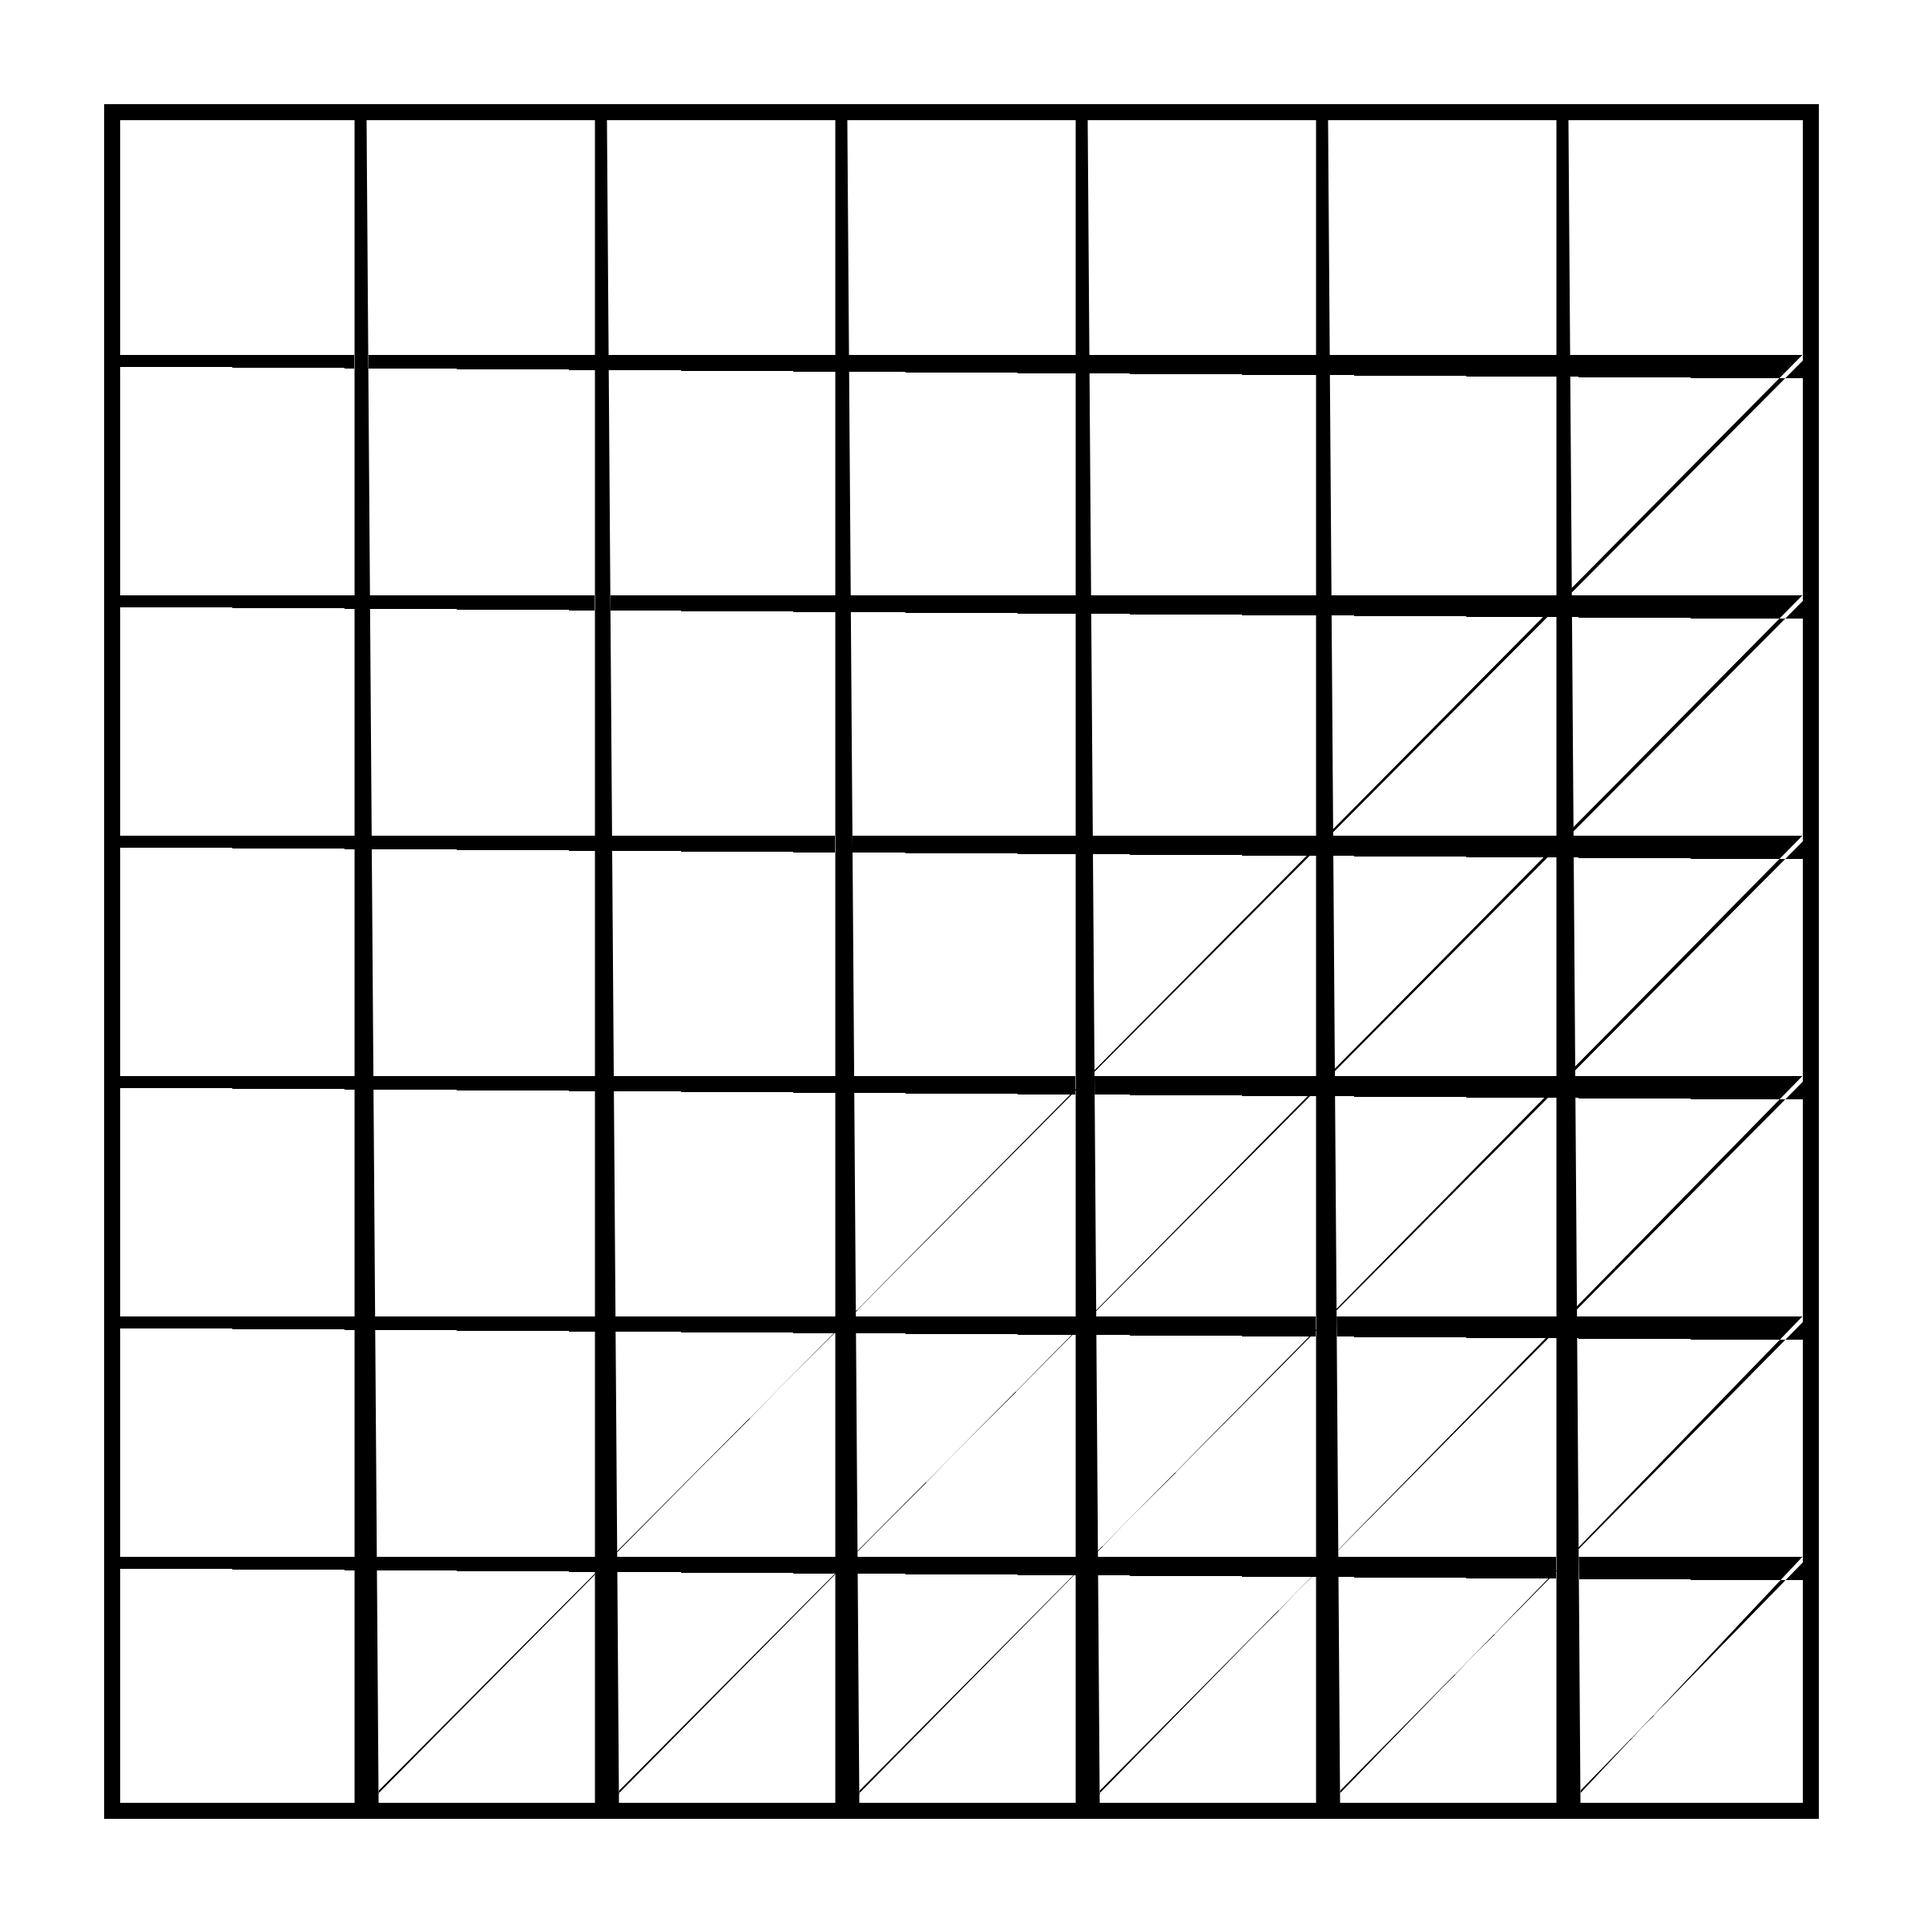
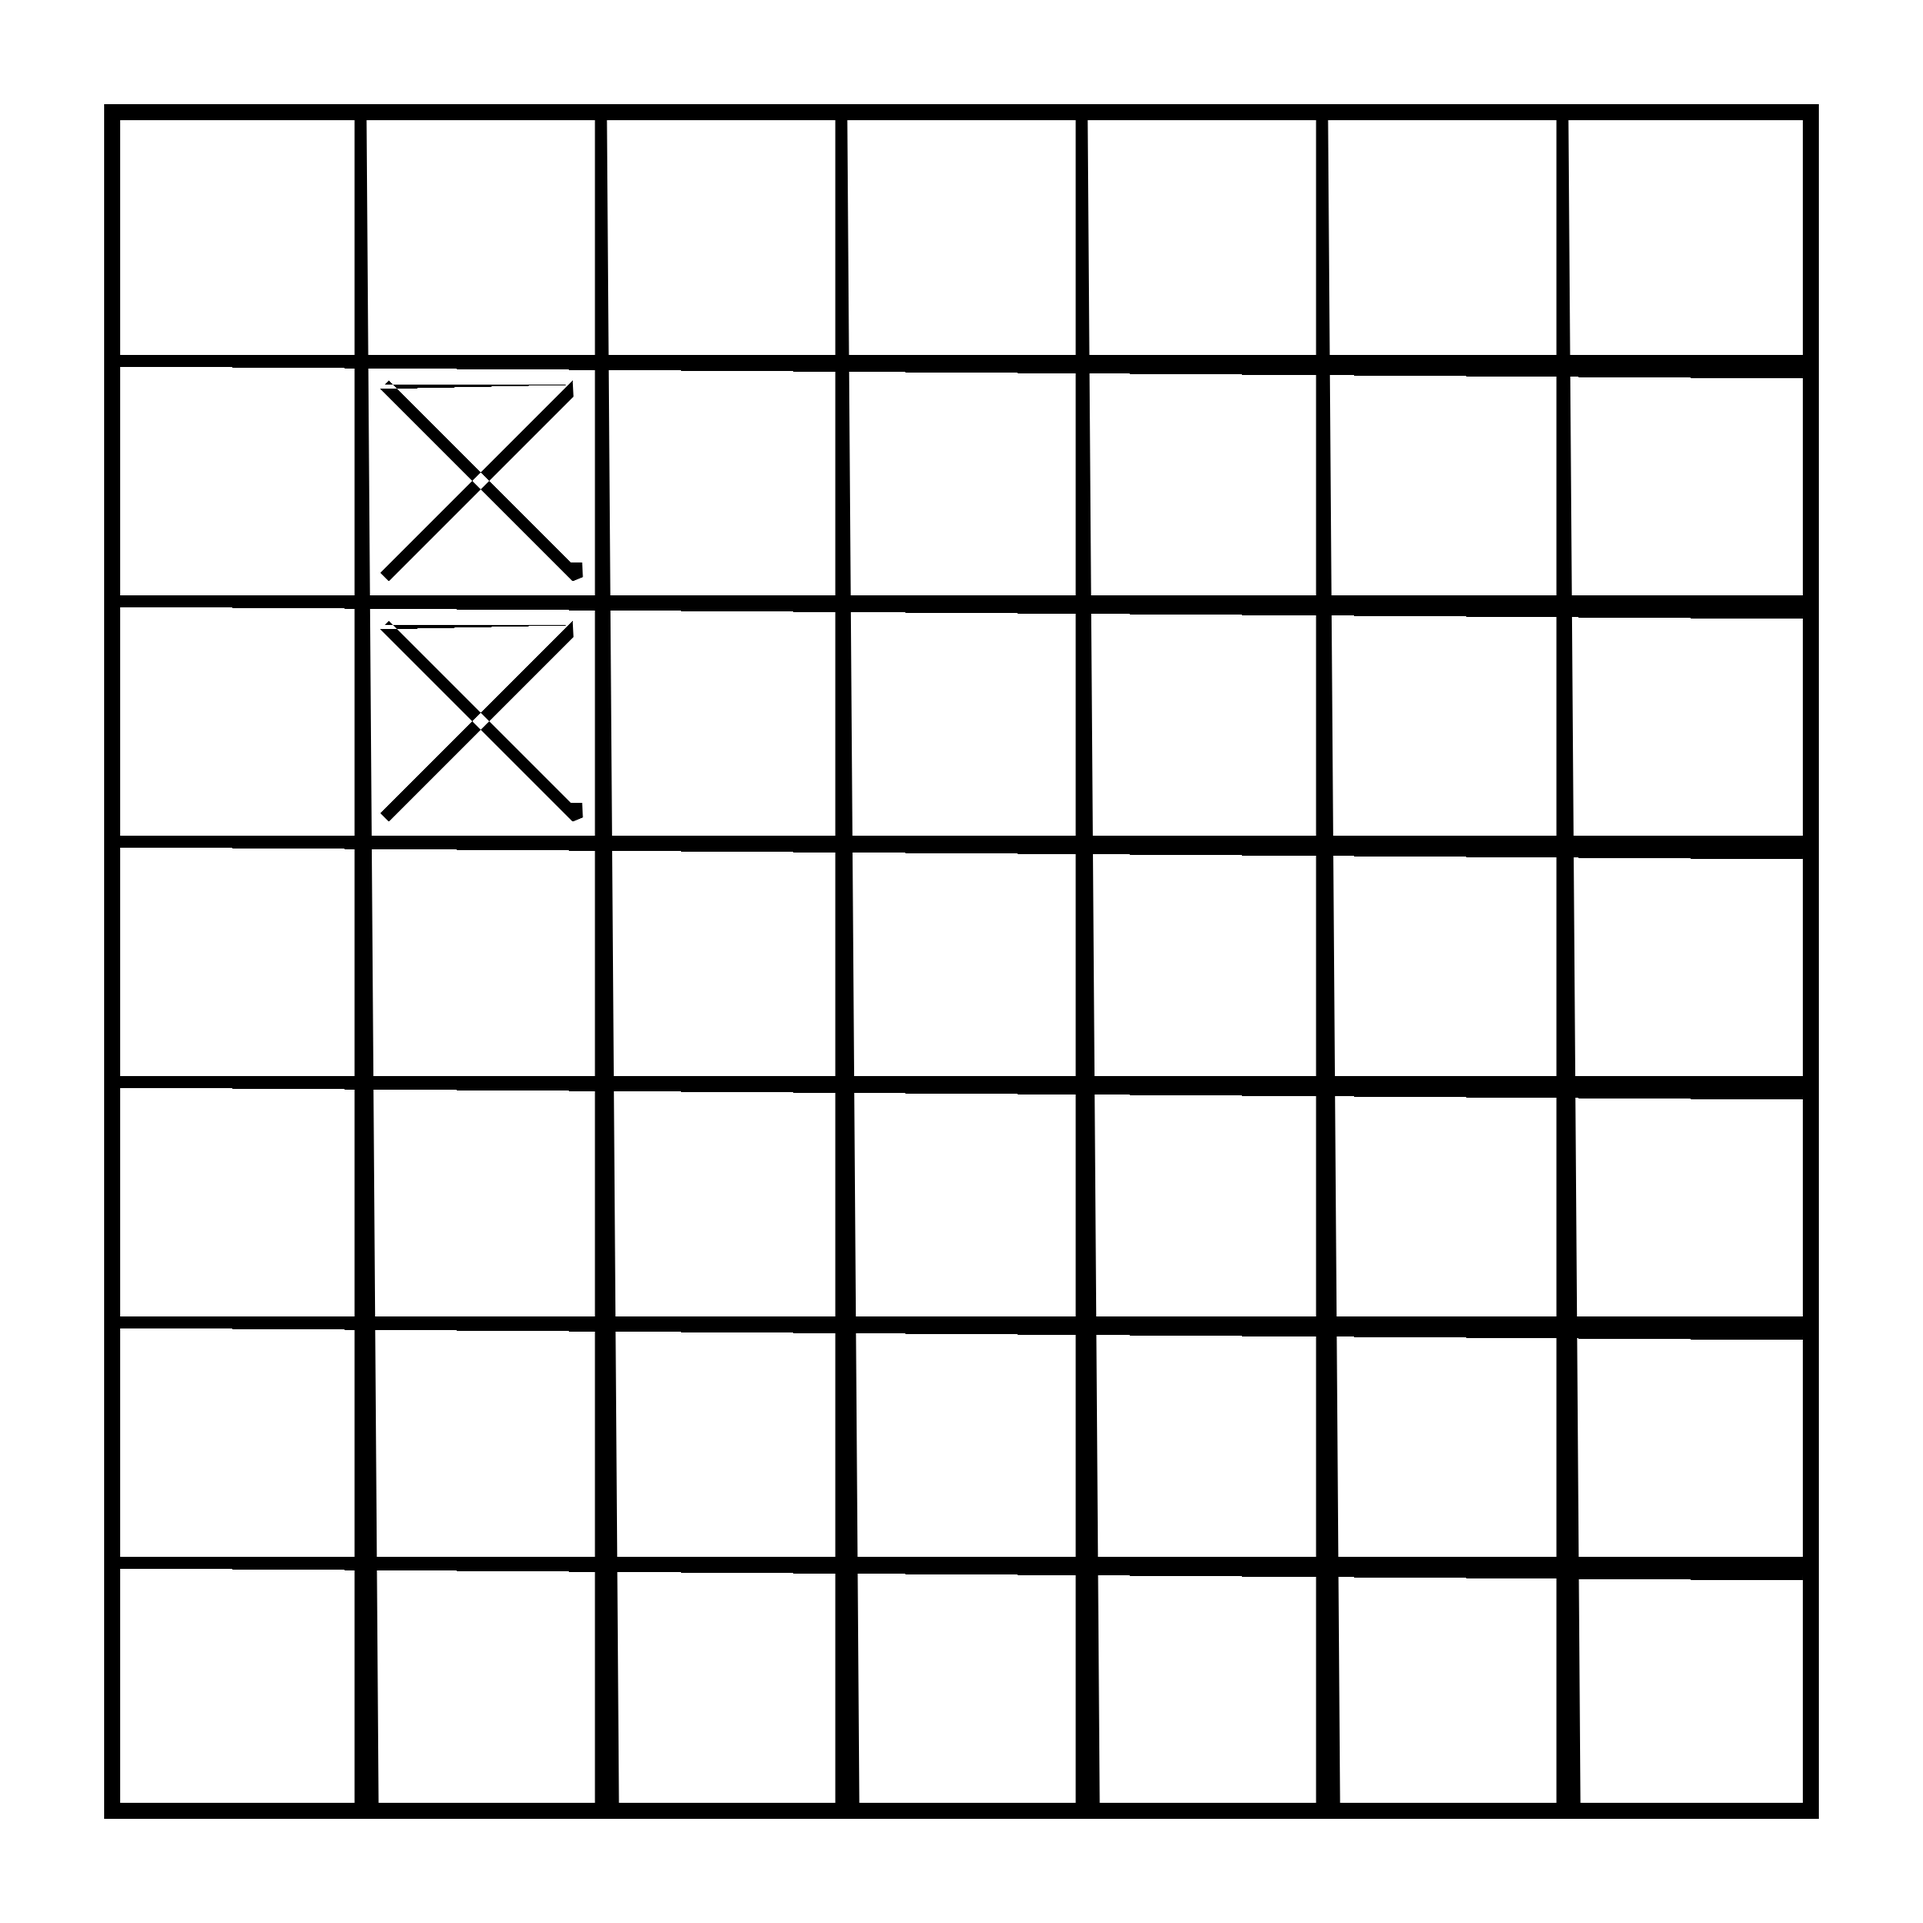
added a drawing of a successful shot and corrected something

diff --git a/lib/drawing.js b/lib/drawing.js
@@ -1,10 +1,12 @@
 const fs = require('fs');
 const PImage = require('pureimage');
 
-const font = PImage.registerFont('CourierNewPS-BoldMT.ttf', 'MyFont');
+// const font = PImage.registerFont('CourierNewPS-BoldMT.ttf', 'MyFont');
 
 const img1 = PImage.make(2400, 2400);
 const ctx = img1.getContext('2d');
+ctx.strokeStyle = 'black';
+ctx.lineWidth = 15;
 
 function col(ctx, i) {
   console.log(i);
@@ -18,6 +20,7 @@ function col(ctx, i) {
 
 function row(ctx, i) {
   console.log(i);
+  ctx.beginPath();
   ctx.moveTo(2250, 150 + 300 * i);
   ctx.lineTo(150, 150 + 300 * i);
   ctx.lineTo(2250, 165 + 300 * i);
@@ -26,10 +29,8 @@ function row(ctx, i) {
 }
 
 function drawingGameBoard(callback) {
-
-  font.load(() => {
-    ctx.strokeStyle = 'black';
-    ctx.lineWidth = 15;
+  const promise = new Promise((resolve) => {
+    console.log(111111111111);
 
     ctx.fillRect(130, 130, 2140, 2140);
     ctx.clearRect(150, 150, 2100, 2100);
@@ -42,11 +43,41 @@ function drawingGameBoard(callback) {
     PImage.encodePNGToStream(img1, fs.createWriteStream('board.png'))
       .then(() => {
         callback();
+        setTimeout(() => {
+          resolve('result');
+        }, 1000);
         console.log('wrote out the png file to board.png');
       }).catch(() => {
         console.log('there was an error writing');
       });
   });
+  return promise;
 }
 
-module.exports = { drawingGameBoard };
+function drawingGoodShot(callback, i, j) {
+  const promise = new Promise((resolve) => {
+    console.log(22222222222222);
+    ctx.beginPath();
+    ctx.moveTo(180 + i * 300, 180 + j * 300);
+    ctx.lineTo(420 + i * 300, 420 + j * 300);
+    ctx.moveTo(420 + i * 300, 180 + j * 300);
+    ctx.lineTo(180 + i * 300, 420 + j * 300);
+    ctx.stroke();
+    ctx.closePath();
+
+    PImage.encodePNGToStream(img1, fs.createWriteStream('board.png'))
+      .then(() => {
+        callback();
+        setTimeout(() => {
+          resolve('result');
+        }, 1000);
+        console.dir(promise);
+        console.log('wrote out the png file to board.png');
+      }).catch(() => {
+        console.log('there was an error writing');
+      });
+  });
+  return promise;
+}
+
+module.exports = { drawingGameBoard, drawingGoodShot };

diff --git a/main.js b/main.js
@@ -1,6 +1,6 @@
 const TelegramBot = require('node-telegram-bot-api');
 require('dotenv').config();
-const { drawingGameBoard } = require('./lib/drawing.js');
+const { drawingGameBoard, drawingGoodShot } = require('./lib/drawing.js');
 const token = process.env.MY_TELEGRAM_BOT_TOKEN;
 const chatId = process.env.MY_TELEGRAM_CHAT_ID;
 
@@ -20,5 +20,8 @@ function sendPicture() {
   console.log(chatId);
   bot.sendPhoto(chatId, './board.png');
 }
+// Test
 
-drawingGameBoard(sendPicture);
+drawingGameBoard(sendPicture)
+  .then(() => drawingGoodShot(sendPicture, 1, 1))
+  .then(() => drawingGoodShot(sendPicture, 1, 2));
